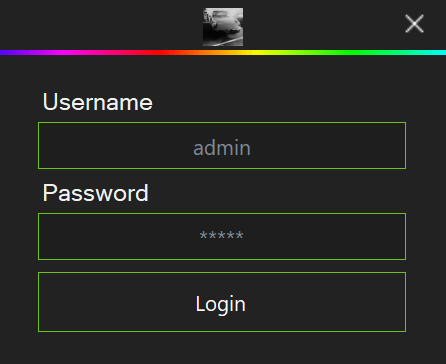
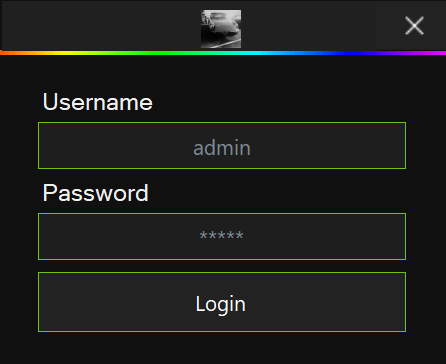
🔧 Updated C# Example

Changed region(s): [[0.0, 0.0, 1.0, 0.1511], [0.9036, 0.0302, 0.9619, 0.0907]]

diff --git a/.examples/CSharp-API-Example/Main.Designer.cs b/.examples/CSharp-API-Example/Main.Designer.cs
@@ -34,14 +34,16 @@
             this.subtext = new System.Windows.Forms.Label();
             this.Inviter = new System.Windows.Forms.Label();
             this.status = new System.Windows.Forms.Label();
-            this.pictureBox3 = new System.Windows.Forms.PictureBox();
-            this.pictureBox1 = new System.Windows.Forms.PictureBox();
             this.avatar = new System.Windows.Forms.PictureBox();
+            this.panel1 = new System.Windows.Forms.Panel();
+            this.pictureBox3 = new System.Windows.Forms.PictureBox();
             this.pictureBox2 = new System.Windows.Forms.PictureBox();
-            ((System.ComponentModel.ISupportInitialize)(this.pictureBox3)).BeginInit();
-            ((System.ComponentModel.ISupportInitialize)(this.pictureBox1)).BeginInit();
+            this.pictureBox1 = new System.Windows.Forms.PictureBox();
             ((System.ComponentModel.ISupportInitialize)(this.avatar)).BeginInit();
+            this.panel1.SuspendLayout();
+            ((System.ComponentModel.ISupportInitialize)(this.pictureBox3)).BeginInit();
             ((System.ComponentModel.ISupportInitialize)(this.pictureBox2)).BeginInit();
+            ((System.ComponentModel.ISupportInitialize)(this.pictureBox1)).BeginInit();
             this.SuspendLayout();
             // 
             // welcome
@@ -49,7 +51,7 @@
             this.welcome.AutoSize = true;
             this.welcome.Font = new System.Drawing.Font("Microsoft Sans Serif", 9.857143F, System.Drawing.FontStyle.Regular, System.Drawing.GraphicsUnit.Point, ((byte)(0)));
             this.welcome.ForeColor = System.Drawing.SystemColors.Window;
-            this.welcome.Location = new System.Drawing.Point(131, 260);
+            this.welcome.Location = new System.Drawing.Point(112, 262);
             this.welcome.Name = "welcome";
             this.welcome.Size = new System.Drawing.Size(111, 29);
             this.welcome.TabIndex = 10;
@@ -60,7 +62,7 @@
             this.statustext.AutoSize = true;
             this.statustext.Font = new System.Drawing.Font("Microsoft Sans Serif", 9.857143F, System.Drawing.FontStyle.Regular, System.Drawing.GraphicsUnit.Point, ((byte)(0)));
             this.statustext.ForeColor = System.Drawing.SystemColors.Window;
-            this.statustext.Location = new System.Drawing.Point(214, 455);
+            this.statustext.Location = new System.Drawing.Point(195, 457);
             this.statustext.Name = "statustext";
             this.statustext.Size = new System.Drawing.Size(75, 29);
             this.statustext.TabIndex = 11;
@@ -71,7 +73,7 @@
             this.subtext.AutoSize = true;
             this.subtext.Font = new System.Drawing.Font("Microsoft Sans Serif", 9.857143F, System.Drawing.FontStyle.Regular, System.Drawing.GraphicsUnit.Point, ((byte)(0)));
             this.subtext.ForeColor = System.Drawing.SystemColors.Window;
-            this.subtext.Location = new System.Drawing.Point(131, 327);
+            this.subtext.Location = new System.Drawing.Point(112, 329);
             this.subtext.Name = "subtext";
             this.subtext.Size = new System.Drawing.Size(52, 29);
             this.subtext.TabIndex = 14;
@@ -82,7 +84,7 @@
             this.Inviter.AutoSize = true;
             this.Inviter.Font = new System.Drawing.Font("Microsoft Sans Serif", 9.857143F, System.Drawing.FontStyle.Regular, System.Drawing.GraphicsUnit.Point, ((byte)(0)));
             this.Inviter.ForeColor = System.Drawing.SystemColors.Window;
-            this.Inviter.Location = new System.Drawing.Point(129, 391);
+            this.Inviter.Location = new System.Drawing.Point(110, 393);
             this.Inviter.Name = "Inviter";
             this.Inviter.Size = new System.Drawing.Size(77, 29);
             this.Inviter.TabIndex = 15;
@@ -93,61 +95,70 @@
             this.status.AutoSize = true;
             this.status.Font = new System.Drawing.Font("Microsoft Sans Serif", 9.857143F, System.Drawing.FontStyle.Regular, System.Drawing.GraphicsUnit.Point, ((byte)(0)));
             this.status.ForeColor = System.Drawing.SystemColors.Window;
-            this.status.Location = new System.Drawing.Point(129, 455);
+            this.status.Location = new System.Drawing.Point(110, 457);
             this.status.Name = "status";
             this.status.Size = new System.Drawing.Size(85, 29);
             this.status.TabIndex = 16;
             this.status.Text = "Status:";
             // 
-            // pictureBox3
-            // 
-            this.pictureBox3.BackColor = System.Drawing.Color.FromArgb(((int)(((byte)(34)))), ((int)(((byte)(34)))), ((int)(((byte)(34)))));
-            this.pictureBox3.Image = global::loader.Properties.Resources.x;
-            this.pictureBox3.Location = new System.Drawing.Point(377, 1);
-            this.pictureBox3.Name = "pictureBox3";
-            this.pictureBox3.Size = new System.Drawing.Size(73, 47);
-            this.pictureBox3.TabIndex = 5;
-            this.pictureBox3.TabStop = false;
-            this.pictureBox3.Click += new System.EventHandler(this.pictureBox3_Click);
-            // 
-            // pictureBox1
-            // 
-            this.pictureBox1.Image = global::loader.Properties.Resources.slider;
-            this.pictureBox1.InitialImage = ((System.Drawing.Image)(resources.GetObject("pictureBox1.InitialImage")));
-            this.pictureBox1.Location = new System.Drawing.Point(-7, 52);
-            this.pictureBox1.Margin = new System.Windows.Forms.Padding(1);
-            this.pictureBox1.Name = "pictureBox1";
-            this.pictureBox1.Size = new System.Drawing.Size(544, 5);
-            this.pictureBox1.TabIndex = 153;
-            this.pictureBox1.TabStop = false;
-            // 
             // avatar
             // 
-            this.avatar.Location = new System.Drawing.Point(153, 106);
+            this.avatar.Location = new System.Drawing.Point(152, 105);
             this.avatar.Margin = new System.Windows.Forms.Padding(4);
             this.avatar.Name = "avatar";
             this.avatar.Size = new System.Drawing.Size(173, 137);
             this.avatar.TabIndex = 9;
             this.avatar.TabStop = false;
             // 
+            // panel1
+            // 
+            this.panel1.BackColor = System.Drawing.Color.FromArgb(((int)(((byte)(32)))), ((int)(((byte)(32)))), ((int)(((byte)(32)))));
+            this.panel1.Controls.Add(this.pictureBox3);
+            this.panel1.Controls.Add(this.pictureBox2);
+            this.panel1.Location = new System.Drawing.Point(-13, -1);
+            this.panel1.Name = "panel1";
+            this.panel1.Size = new System.Drawing.Size(481, 52);
+            this.panel1.TabIndex = 154;
+            // 
+            // pictureBox3
+            // 
+            this.pictureBox3.BackColor = System.Drawing.Color.FromArgb(((int)(((byte)(16)))), ((int)(((byte)(16)))), ((int)(((byte)(16)))));
+            this.pictureBox3.Image = global::loader.Properties.Resources.x;
+            this.pictureBox3.Location = new System.Drawing.Point(392, 2);
+            this.pictureBox3.Name = "pictureBox3";
+            this.pictureBox3.Size = new System.Drawing.Size(70, 47);
+            this.pictureBox3.TabIndex = 5;
+            this.pictureBox3.TabStop = false;
+            this.pictureBox3.Click += new System.EventHandler(this.pictureBox3_Click_1);
+            // 
             // pictureBox2
             // 
             this.pictureBox2.BackColor = System.Drawing.Color.FromArgb(((int)(((byte)(34)))), ((int)(((byte)(34)))), ((int)(((byte)(34)))));
             this.pictureBox2.Image = global::loader.Properties.Resources.logo;
-            this.pictureBox2.Location = new System.Drawing.Point(219, 10);
+            this.pictureBox2.Location = new System.Drawing.Point(199, 9);
             this.pictureBox2.Name = "pictureBox2";
             this.pictureBox2.Size = new System.Drawing.Size(42, 38);
-            this.pictureBox2.TabIndex = 154;
+            this.pictureBox2.TabIndex = 4;
             this.pictureBox2.TabStop = false;
+            // 
+            // pictureBox1
+            // 
+            this.pictureBox1.Image = global::loader.Properties.Resources.slider;
+            this.pictureBox1.InitialImage = ((System.Drawing.Image)(resources.GetObject("pictureBox1.InitialImage")));
+            this.pictureBox1.Location = new System.Drawing.Point(-6, 50);
+            this.pictureBox1.Margin = new System.Windows.Forms.Padding(1);
+            this.pictureBox1.Name = "pictureBox1";
+            this.pictureBox1.Size = new System.Drawing.Size(527, 5);
+            this.pictureBox1.TabIndex = 153;
+            this.pictureBox1.TabStop = false;
             // 
             // Main
             // 
             this.AutoScaleDimensions = new System.Drawing.SizeF(11F, 24F);
             this.AutoScaleMode = System.Windows.Forms.AutoScaleMode.Font;
-            this.BackColor = System.Drawing.Color.FromArgb(((int)(((byte)(34)))), ((int)(((byte)(34)))), ((int)(((byte)(34)))));
+            this.BackColor = System.Drawing.Color.FromArgb(((int)(((byte)(16)))), ((int)(((byte)(16)))), ((int)(((byte)(16)))));
             this.ClientSize = new System.Drawing.Size(446, 543);
-            this.Controls.Add(this.pictureBox2);
-            this.Controls.Add(this.pictureBox3);
+            this.Controls.Add(this.panel1);
             this.Controls.Add(this.pictureBox1);
             this.Controls.Add(this.status);
             this.Controls.Add(this.Inviter);
@@ -161,10 +172,11 @@
             this.StartPosition = System.Windows.Forms.FormStartPosition.CenterScreen;
             this.Text = "Main";
             this.MouseDown += new System.Windows.Forms.MouseEventHandler(this.Main_MouseDown);
-            ((System.ComponentModel.ISupportInitialize)(this.pictureBox3)).EndInit();
-            ((System.ComponentModel.ISupportInitialize)(this.pictureBox1)).EndInit();
             ((System.ComponentModel.ISupportInitialize)(this.avatar)).EndInit();
+            this.panel1.ResumeLayout(false);
+            ((System.ComponentModel.ISupportInitialize)(this.pictureBox3)).EndInit();
             ((System.ComponentModel.ISupportInitialize)(this.pictureBox2)).EndInit();
+            ((System.ComponentModel.ISupportInitialize)(this.pictureBox1)).EndInit();
             this.ResumeLayout(false);
             this.PerformLayout();
 
@@ -177,8 +189,9 @@
         private System.Windows.Forms.Label subtext;
         private System.Windows.Forms.Label Inviter;
         private System.Windows.Forms.Label status;
-        private System.Windows.Forms.PictureBox pictureBox1;
+        private System.Windows.Forms.Panel panel1;
         private System.Windows.Forms.PictureBox pictureBox3;
         private System.Windows.Forms.PictureBox pictureBox2;
+        private System.Windows.Forms.PictureBox pictureBox1;
     }
 }

diff --git a/.examples/CSharp-API-Example/Login.Designer.cs b/.examples/CSharp-API-Example/Login.Designer.cs
@@ -37,9 +37,11 @@
             this.pictureBox3 = new System.Windows.Forms.PictureBox();
             this.pictureBox2 = new System.Windows.Forms.PictureBox();
             this.pictureBox1 = new System.Windows.Forms.PictureBox();
+            this.panel1 = new System.Windows.Forms.Panel();
             ((System.ComponentModel.ISupportInitialize)(this.pictureBox3)).BeginInit();
             ((System.ComponentModel.ISupportInitialize)(this.pictureBox2)).BeginInit();
             ((System.ComponentModel.ISupportInitialize)(this.pictureBox1)).BeginInit();
+            this.panel1.SuspendLayout();
             this.SuspendLayout();
             // 
             // label1
@@ -134,11 +136,11 @@
             // 
             // pictureBox3
             // 
-            this.pictureBox3.BackColor = System.Drawing.Color.FromArgb(((int)(((byte)(34)))), ((int)(((byte)(34)))), ((int)(((byte)(34)))));
+            this.pictureBox3.BackColor = System.Drawing.Color.FromArgb(((int)(((byte)(16)))), ((int)(((byte)(16)))), ((int)(((byte)(16)))));
             this.pictureBox3.Image = global::loader.Properties.Resources.x;
-            this.pictureBox3.Location = new System.Drawing.Point(377, -1);
+            this.pictureBox3.Location = new System.Drawing.Point(375, 0);
             this.pictureBox3.Name = "pictureBox3";
-            this.pictureBox3.Size = new System.Drawing.Size(73, 47);
+            this.pictureBox3.Size = new System.Drawing.Size(73, 50);
             this.pictureBox3.TabIndex = 5;
             this.pictureBox3.TabStop = false;
             this.pictureBox3.Click += new System.EventHandler(this.pictureBox3_Click);
@@ -147,7 +149,7 @@
             // 
             this.pictureBox2.BackColor = System.Drawing.Color.FromArgb(((int)(((byte)(34)))), ((int)(((byte)(34)))), ((int)(((byte)(34)))));
             this.pictureBox2.Image = global::loader.Properties.Resources.logo;
-            this.pictureBox2.Location = new System.Drawing.Point(203, 8);
+            this.pictureBox2.Location = new System.Drawing.Point(199, 9);
             this.pictureBox2.Name = "pictureBox2";
             this.pictureBox2.Size = new System.Drawing.Size(42, 38);
             this.pictureBox2.TabIndex = 4;
@@ -160,18 +162,27 @@
             this.pictureBox1.Location = new System.Drawing.Point(-16, 50);
             this.pictureBox1.Margin = new System.Windows.Forms.Padding(1);
             this.pictureBox1.Name = "pictureBox1";
-            this.pictureBox1.Size = new System.Drawing.Size(527, 5);
+            this.pictureBox1.Size = new System.Drawing.Size(531, 5);
             this.pictureBox1.TabIndex = 147;
             this.pictureBox1.TabStop = false;
+            // 
+            // panel1
+            // 
+            this.panel1.BackColor = System.Drawing.Color.FromArgb(((int)(((byte)(32)))), ((int)(((byte)(32)))), ((int)(((byte)(32)))));
+            this.panel1.Controls.Add(this.pictureBox3);
+            this.panel1.Controls.Add(this.pictureBox2);
+            this.panel1.Location = new System.Drawing.Point(2, 1);
+            this.panel1.Name = "panel1";
+            this.panel1.Size = new System.Drawing.Size(448, 50);
+            this.panel1.TabIndex = 152;
             // 
             // Login
             // 
             this.AutoScaleDimensions = new System.Drawing.SizeF(11F, 24F);
             this.AutoScaleMode = System.Windows.Forms.AutoScaleMode.Font;
-            this.BackColor = System.Drawing.Color.FromArgb(((int)(((byte)(34)))), ((int)(((byte)(34)))), ((int)(((byte)(34)))));
+            this.BackColor = System.Drawing.Color.FromArgb(((int)(((byte)(16)))), ((int)(((byte)(16)))), ((int)(((byte)(16)))));
             this.ClientSize = new System.Drawing.Size(446, 364);
-            this.Controls.Add(this.pictureBox3);
-            this.Controls.Add(this.pictureBox2);
+            this.Controls.Add(this.panel1);
             this.Controls.Add(this.loginbtn);
             this.Controls.Add(this.usernametextbox);
             this.Controls.Add(this.Passwordlabel);
@@ -188,6 +199,7 @@
             ((System.ComponentModel.ISupportInitialize)(this.pictureBox3)).EndInit();
             ((System.ComponentModel.ISupportInitialize)(this.pictureBox2)).EndInit();
             ((System.ComponentModel.ISupportInitialize)(this.pictureBox1)).EndInit();
+            this.panel1.ResumeLayout(false);
             this.ResumeLayout(false);
             this.PerformLayout();
 
@@ -202,5 +214,6 @@
         private Guna.UI2.WinForms.Guna2Button loginbtn;
         private System.Windows.Forms.PictureBox pictureBox2;
         private System.Windows.Forms.PictureBox pictureBox3;
+        private System.Windows.Forms.Panel panel1;
     }
 }

diff --git a/.examples/CSharp-API-Example/Main.cs b/.examples/CSharp-API-Example/Main.cs
@@ -88,9 +88,9 @@ namespace loader
             }
         }
 
-        private void pictureBox3_Click(object sender, EventArgs e)
+        private void pictureBox3_Click_1(object sender, EventArgs e)
         {
-            Environment.Exit(0);    
+            Environment.Exit(0);
         }
     }
 }
